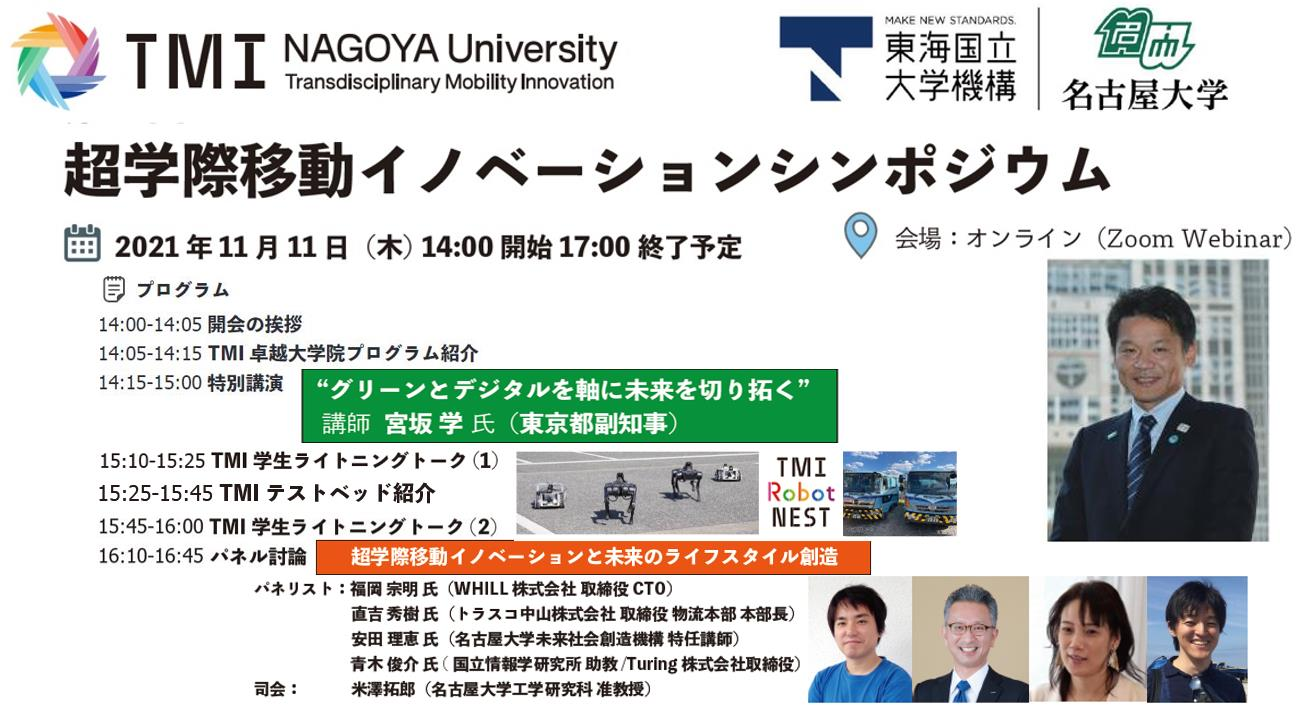
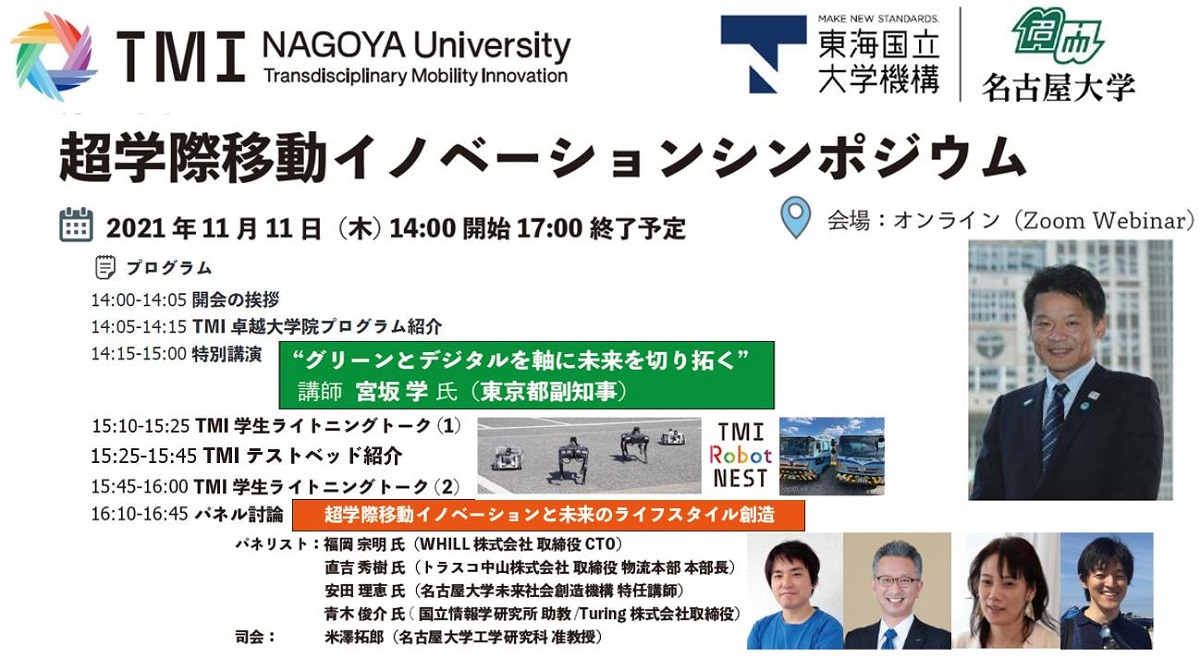
update og url

diff --git a/seminar/20211111.html b/seminar/20211111.html
@@ -22,8 +22,8 @@
 <meta property="og:url" content="https://tmi-nu.github.io/seminar/20211111.html">
 <meta property="og:image" content="https://tmi-nu.github.io/seminar/TMI_sympo_og.jpg">
 <meta property="og:image:secure_url" content="https://tmi-nu.github.io/seminar/TMI_sympo_og.jpg">
-<meta property="og:image:width" content="1292">
-<meta property="og:image:height" content="728">
+<meta property="og:image:width" content="1200">
+<meta property="og:image:height" content="659">
 <link rel="stylesheet" href="/css/style.css">
 <script src="/js/openclose.js"></script>
 <script src="/js/fixmenu.js"></script>
